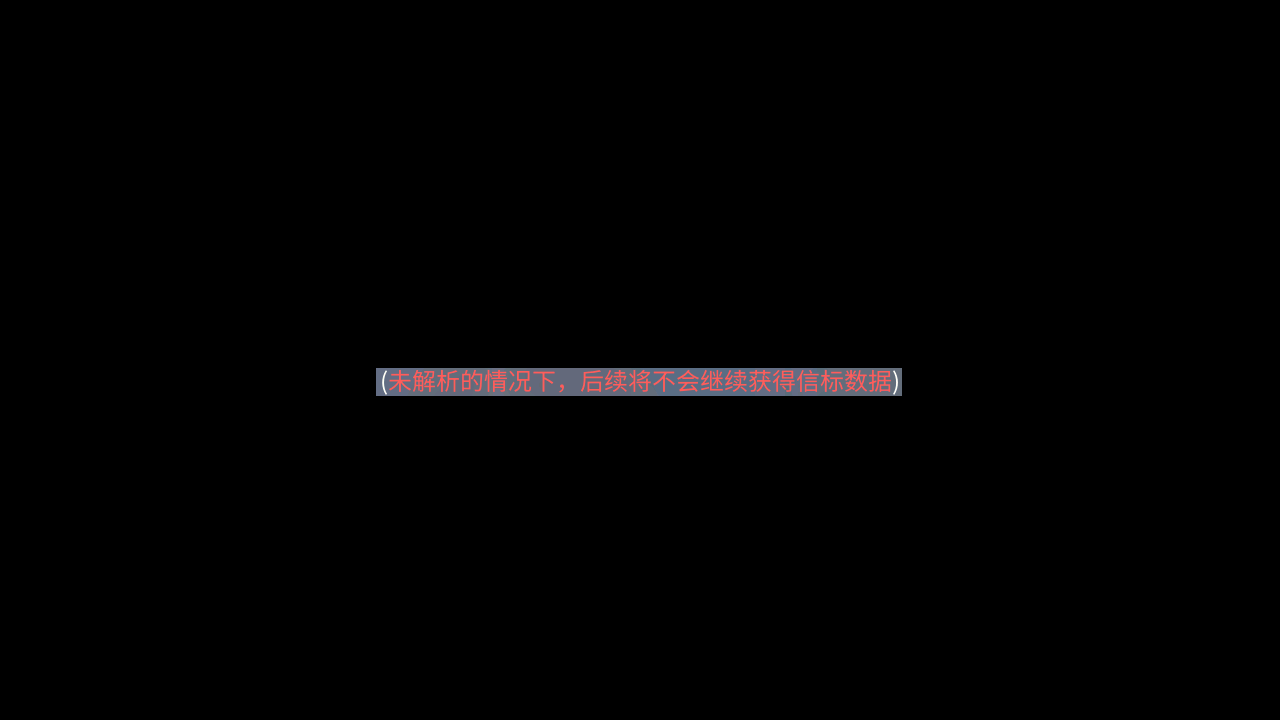
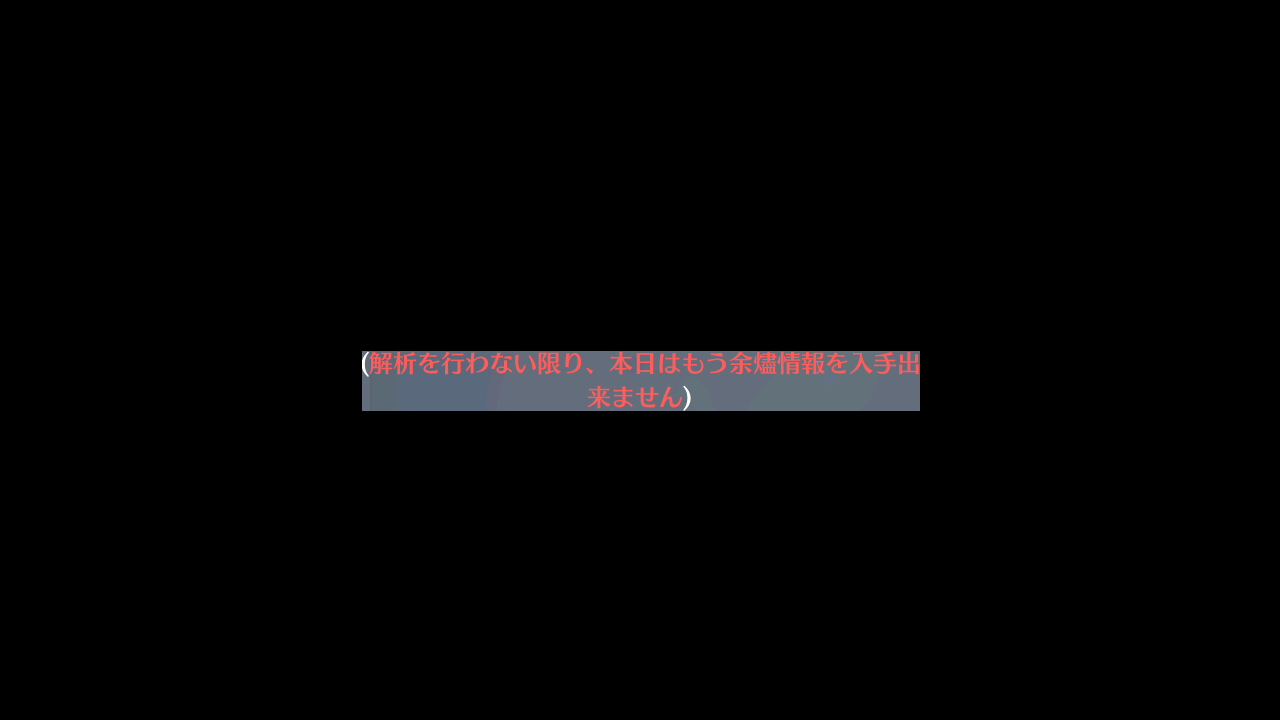
fix: [jp] update some os & os_handler assets

Changed region(s): [[0.2812, 0.4889, 0.7188, 0.5806]]

diff --git a/module/os_handler/assets.py b/module/os_handler/assets.py
@@ -5,13 +5,13 @@ from module.base.template import Template
 # Don't modify it manually.
 
 ACTION_POINT_BUY_REMAIN = Button(area={'cn': (803, 458, 833, 482), 'en': (907, 458, 941, 483), 'jp': (803, 458, 833, 482), 'tw': (803, 458, 833, 482)}, color={'cn': (108, 138, 125), 'en': (106, 145, 116), 'jp': (108, 138, 125), 'tw': (108, 138, 125)}, button={'cn': (803, 458, 833, 482), 'en': (907, 458, 941, 483), 'jp': (803, 458, 833, 482), 'tw': (803, 458, 833, 482)}, file={'cn': './assets/cn/os_handler/ACTION_POINT_BUY_REMAIN.png', 'en': './assets/en/os_handler/ACTION_POINT_BUY_REMAIN.png', 'jp': './assets/cn/os_handler/ACTION_POINT_BUY_REMAIN.png', 'tw': './assets/cn/os_handler/ACTION_POINT_BUY_REMAIN.png'})
-ACTION_POINT_CANCEL = Button(area={'cn': (370, 528, 542, 585), 'en': (375, 531, 537, 584), 'jp': (370, 528, 542, 585), 'tw': (370, 528, 542, 585)}, color={'cn': (167, 168, 171), 'en': (170, 172, 175), 'jp': (167, 168, 171), 'tw': (167, 168, 171)}, button={'cn': (370, 528, 542, 585), 'en': (375, 531, 537, 584), 'jp': (370, 528, 542, 585), 'tw': (370, 528, 542, 585)}, file={'cn': './assets/cn/os_handler/ACTION_POINT_CANCEL.png', 'en': './assets/en/os_handler/ACTION_POINT_CANCEL.png', 'jp': './assets/cn/os_handler/ACTION_POINT_CANCEL.png', 'tw': './assets/cn/os_handler/ACTION_POINT_CANCEL.png'})
+ACTION_POINT_CANCEL = Button(area={'cn': (370, 528, 542, 585), 'en': (375, 531, 537, 584), 'jp': (402, 482, 577, 541), 'tw': (370, 528, 542, 585)}, color={'cn': (167, 168, 171), 'en': (170, 172, 175), 'jp': (162, 164, 166), 'tw': (167, 168, 171)}, button={'cn': (370, 528, 542, 585), 'en': (375, 531, 537, 584), 'jp': (402, 482, 577, 541), 'tw': (370, 528, 542, 585)}, file={'cn': './assets/cn/os_handler/ACTION_POINT_CANCEL.png', 'en': './assets/en/os_handler/ACTION_POINT_CANCEL.png', 'jp': './assets/jp/os_handler/ACTION_POINT_CANCEL.png', 'tw': './assets/cn/os_handler/ACTION_POINT_CANCEL.png'})
 ACTION_POINT_REMAIN = Button(area={'cn': (892, 220, 952, 241), 'en': (892, 220, 952, 241), 'jp': (892, 220, 952, 241), 'tw': (892, 220, 952, 241)}, color={'cn': (124, 127, 113), 'en': (124, 127, 113), 'jp': (124, 127, 113), 'tw': (124, 127, 113)}, button={'cn': (892, 220, 952, 241), 'en': (892, 220, 952, 241), 'jp': (892, 220, 952, 241), 'tw': (892, 220, 952, 241)}, file={'cn': './assets/cn/os_handler/ACTION_POINT_REMAIN.png', 'en': './assets/en/os_handler/ACTION_POINT_REMAIN.png', 'jp': './assets/jp/os_handler/ACTION_POINT_REMAIN.png', 'tw': './assets/tw/os_handler/ACTION_POINT_REMAIN.png'})
-ACTION_POINT_USE = Button(area={'cn': (738, 528, 910, 585), 'en': (742, 531, 909, 584), 'jp': (738, 528, 910, 585), 'tw': (738, 528, 910, 585)}, color={'cn': (93, 142, 203), 'en': (107, 152, 208), 'jp': (93, 142, 203), 'tw': (93, 142, 203)}, button={'cn': (738, 528, 910, 585), 'en': (742, 531, 909, 584), 'jp': (738, 528, 910, 585), 'tw': (738, 528, 910, 585)}, file={'cn': './assets/cn/os_handler/ACTION_POINT_USE.png', 'en': './assets/en/os_handler/ACTION_POINT_USE.png', 'jp': './assets/cn/os_handler/ACTION_POINT_USE.png', 'tw': './assets/cn/os_handler/ACTION_POINT_USE.png'})
-ASH_POPUP_CHECK = Button(area={'cn': (352, 249, 928, 479), 'en': (352, 228, 926, 462), 'jp': (376, 368, 902, 396), 'tw': (376, 368, 902, 396)}, color={'cn': (107, 117, 135), 'en': (125, 129, 139), 'jp': (134, 105, 119), 'tw': (134, 105, 119)}, button={'cn': (352, 249, 928, 479), 'en': (352, 228, 926, 462), 'jp': (376, 368, 902, 396), 'tw': (376, 368, 902, 396)}, file={'cn': './assets/cn/os_handler/ASH_POPUP_CHECK.png', 'en': './assets/en/os_handler/ASH_POPUP_CHECK.png', 'jp': './assets/jp/os_handler/ASH_POPUP_CHECK.png', 'tw': './assets/tw/os_handler/ASH_POPUP_CHECK.png'})
-AUTO_SEARCH_OS_MAP_OPTION_OFF = Button(area={'cn': (1205, 549, 1275, 566), 'en': (1196, 574, 1273, 586), 'jp': (1205, 549, 1275, 566), 'tw': (1205, 549, 1275, 566)}, color={'cn': (196, 169, 169), 'en': (154, 135, 141), 'jp': (196, 169, 169), 'tw': (196, 169, 169)}, button={'cn': (1205, 549, 1275, 566), 'en': (1196, 574, 1273, 586), 'jp': (1205, 549, 1275, 566), 'tw': (1205, 549, 1275, 566)}, file={'cn': './assets/cn/os_handler/AUTO_SEARCH_OS_MAP_OPTION_OFF.png', 'en': './assets/en/os_handler/AUTO_SEARCH_OS_MAP_OPTION_OFF.png', 'jp': './assets/cn/os_handler/AUTO_SEARCH_OS_MAP_OPTION_OFF.png', 'tw': './assets/cn/os_handler/AUTO_SEARCH_OS_MAP_OPTION_OFF.png'})
-AUTO_SEARCH_OS_MAP_OPTION_ON = Button(area={'cn': (1205, 549, 1275, 566), 'en': (1198, 576, 1275, 588), 'jp': (1205, 549, 1275, 566), 'tw': (1205, 549, 1275, 566)}, color={'cn': (149, 176, 193), 'en': (116, 139, 160), 'jp': (149, 176, 193), 'tw': (149, 176, 193)}, button={'cn': (1205, 549, 1275, 566), 'en': (1198, 576, 1275, 588), 'jp': (1205, 549, 1275, 566), 'tw': (1205, 549, 1275, 566)}, file={'cn': './assets/cn/os_handler/AUTO_SEARCH_OS_MAP_OPTION_ON.png', 'en': './assets/en/os_handler/AUTO_SEARCH_OS_MAP_OPTION_ON.png', 'jp': './assets/cn/os_handler/AUTO_SEARCH_OS_MAP_OPTION_ON.png', 'tw': './assets/cn/os_handler/AUTO_SEARCH_OS_MAP_OPTION_ON.png'})
-AUTO_SEARCH_REWARD = Button(area={'cn': (558, 535, 730, 592), 'en': (563, 537, 725, 591), 'jp': (558, 535, 730, 592), 'tw': (558, 535, 730, 592)}, color={'cn': (163, 166, 170), 'en': (167, 170, 174), 'jp': (163, 166, 170), 'tw': (163, 166, 170)}, button={'cn': (558, 535, 730, 592), 'en': (563, 537, 725, 591), 'jp': (558, 535, 730, 592), 'tw': (558, 535, 730, 592)}, file={'cn': './assets/cn/os_handler/AUTO_SEARCH_REWARD.png', 'en': './assets/en/os_handler/AUTO_SEARCH_REWARD.png', 'jp': './assets/cn/os_handler/AUTO_SEARCH_REWARD.png', 'tw': './assets/cn/os_handler/AUTO_SEARCH_REWARD.png'})
+ACTION_POINT_USE = Button(area={'cn': (738, 528, 910, 585), 'en': (742, 531, 909, 584), 'jp': (702, 481, 878, 541), 'tw': (738, 528, 910, 585)}, color={'cn': (93, 142, 203), 'en': (107, 152, 208), 'jp': (94, 142, 203), 'tw': (93, 142, 203)}, button={'cn': (738, 528, 910, 585), 'en': (742, 531, 909, 584), 'jp': (702, 481, 878, 541), 'tw': (738, 528, 910, 585)}, file={'cn': './assets/cn/os_handler/ACTION_POINT_USE.png', 'en': './assets/en/os_handler/ACTION_POINT_USE.png', 'jp': './assets/jp/os_handler/ACTION_POINT_USE.png', 'tw': './assets/cn/os_handler/ACTION_POINT_USE.png'})
+ASH_POPUP_CHECK = Button(area={'cn': (352, 249, 928, 479), 'en': (352, 228, 926, 462), 'jp': (362, 351, 920, 411), 'tw': (376, 368, 902, 396)}, color={'cn': (107, 117, 135), 'en': (125, 129, 139), 'jp': (120, 107, 119), 'tw': (134, 105, 119)}, button={'cn': (352, 249, 928, 479), 'en': (352, 228, 926, 462), 'jp': (362, 351, 920, 411), 'tw': (376, 368, 902, 396)}, file={'cn': './assets/cn/os_handler/ASH_POPUP_CHECK.png', 'en': './assets/en/os_handler/ASH_POPUP_CHECK.png', 'jp': './assets/jp/os_handler/ASH_POPUP_CHECK.png', 'tw': './assets/tw/os_handler/ASH_POPUP_CHECK.png'})
+AUTO_SEARCH_OS_MAP_OPTION_OFF = Button(area={'cn': (1205, 549, 1275, 566), 'en': (1196, 574, 1273, 586), 'jp': (1204, 572, 1276, 593), 'tw': (1205, 549, 1275, 566)}, color={'cn': (196, 169, 169), 'en': (154, 135, 141), 'jp': (180, 154, 157), 'tw': (196, 169, 169)}, button={'cn': (1205, 549, 1275, 566), 'en': (1196, 574, 1273, 586), 'jp': (1204, 572, 1276, 593), 'tw': (1205, 549, 1275, 566)}, file={'cn': './assets/cn/os_handler/AUTO_SEARCH_OS_MAP_OPTION_OFF.png', 'en': './assets/en/os_handler/AUTO_SEARCH_OS_MAP_OPTION_OFF.png', 'jp': './assets/jp/os_handler/AUTO_SEARCH_OS_MAP_OPTION_OFF.png', 'tw': './assets/cn/os_handler/AUTO_SEARCH_OS_MAP_OPTION_OFF.png'})
+AUTO_SEARCH_OS_MAP_OPTION_ON = Button(area={'cn': (1205, 549, 1275, 566), 'en': (1198, 576, 1275, 588), 'jp': (1205, 573, 1275, 592), 'tw': (1205, 549, 1275, 566)}, color={'cn': (149, 176, 193), 'en': (116, 139, 160), 'jp': (145, 172, 190), 'tw': (149, 176, 193)}, button={'cn': (1205, 549, 1275, 566), 'en': (1198, 576, 1275, 588), 'jp': (1205, 573, 1275, 592), 'tw': (1205, 549, 1275, 566)}, file={'cn': './assets/cn/os_handler/AUTO_SEARCH_OS_MAP_OPTION_ON.png', 'en': './assets/en/os_handler/AUTO_SEARCH_OS_MAP_OPTION_ON.png', 'jp': './assets/jp/os_handler/AUTO_SEARCH_OS_MAP_OPTION_ON.png', 'tw': './assets/cn/os_handler/AUTO_SEARCH_OS_MAP_OPTION_ON.png'})
+AUTO_SEARCH_REWARD = Button(area={'cn': (558, 535, 730, 592), 'en': (563, 537, 725, 591), 'jp': (556, 534, 731, 594), 'tw': (558, 535, 730, 592)}, color={'cn': (163, 166, 170), 'en': (167, 170, 174), 'jp': (166, 169, 171), 'tw': (163, 166, 170)}, button={'cn': (558, 535, 730, 592), 'en': (563, 537, 725, 591), 'jp': (556, 534, 731, 594), 'tw': (558, 535, 730, 592)}, file={'cn': './assets/cn/os_handler/AUTO_SEARCH_REWARD.png', 'en': './assets/en/os_handler/AUTO_SEARCH_REWARD.png', 'jp': './assets/jp/os_handler/AUTO_SEARCH_REWARD.png', 'tw': './assets/cn/os_handler/AUTO_SEARCH_REWARD.png'})
 CLICK_SAFE_AREA = Button(area={'cn': (1104, 169, 1214, 284), 'en': (1104, 169, 1214, 284), 'jp': (1104, 169, 1214, 284), 'tw': (1104, 169, 1214, 284)}, color={'cn': (96, 114, 142), 'en': (96, 114, 142), 'jp': (96, 114, 142), 'tw': (96, 114, 142)}, button={'cn': (1104, 169, 1214, 284), 'en': (1104, 169, 1214, 284), 'jp': (1104, 169, 1214, 284), 'tw': (1104, 169, 1214, 284)}, file={'cn': './assets/cn/os_handler/CLICK_SAFE_AREA.png', 'en': './assets/en/os_handler/CLICK_SAFE_AREA.png', 'jp': './assets/jp/os_handler/CLICK_SAFE_AREA.png', 'tw': './assets/tw/os_handler/CLICK_SAFE_AREA.png'})
 GET_ADAPTABILITY = Button(area={'cn': (538, 191, 742, 227), 'en': (548, 191, 742, 215), 'jp': (538, 191, 743, 227), 'tw': (538, 191, 742, 227)}, color={'cn': (166, 195, 246), 'en': (194, 207, 225), 'jp': (158, 190, 245), 'tw': (166, 195, 246)}, button={'cn': (538, 191, 742, 227), 'en': (548, 191, 742, 215), 'jp': (538, 191, 743, 227), 'tw': (538, 191, 742, 227)}, file={'cn': './assets/cn/os_handler/GET_ADAPTABILITY.png', 'en': './assets/en/os_handler/GET_ADAPTABILITY.png', 'jp': './assets/jp/os_handler/GET_ADAPTABILITY.png', 'tw': './assets/tw/os_handler/GET_ADAPTABILITY.png'})
 GET_MEOWFFICER_ITEMS_1 = Button(area={'cn': (558, 211, 730, 242), 'en': (550, 211, 723, 247), 'jp': (538, 217, 732, 253), 'tw': (558, 211, 730, 242)}, color={'cn': (186, 200, 231), 'en': (165, 191, 241), 'jp': (143, 180, 249), 'tw': (186, 200, 231)}, button={'cn': (558, 211, 730, 242), 'en': (550, 211, 723, 247), 'jp': (538, 217, 732, 253), 'tw': (558, 211, 730, 242)}, file={'cn': './assets/cn/os_handler/GET_MEOWFFICER_ITEMS_1.png', 'en': './assets/en/os_handler/GET_MEOWFFICER_ITEMS_1.png', 'jp': './assets/jp/os_handler/GET_MEOWFFICER_ITEMS_1.png', 'tw': './assets/tw/os_handler/GET_MEOWFFICER_ITEMS_1.png'})
@@ -19,21 +19,21 @@ GET_MEOWFFICER_ITEMS_2 = Button(area={'cn': (558, 140, 730, 171), 'en': (550, 14
 IN_MAP = Button(area={'cn': (921, 640, 1023, 695), 'en': (921, 640, 1023, 695), 'jp': (918, 637, 1026, 698), 'tw': (936, 638, 1037, 697)}, color={'cn': (240, 194, 115), 'en': (239, 192, 110), 'jp': (236, 192, 111), 'tw': (239, 192, 111)}, button={'cn': (921, 640, 1023, 695), 'en': (921, 640, 1023, 695), 'jp': (918, 637, 1026, 698), 'tw': (936, 638, 1037, 697)}, file={'cn': './assets/cn/os_handler/IN_MAP.png', 'en': './assets/en/os_handler/IN_MAP.png', 'jp': './assets/jp/os_handler/IN_MAP.png', 'tw': './assets/tw/os_handler/IN_MAP.png'})
 MAP_ARCHIVES = Button(area={'cn': (1180, 353, 1280, 411), 'en': (1212, 353, 1280, 411), 'jp': (1180, 353, 1280, 411), 'tw': (1180, 353, 1280, 411)}, color={'cn': (134, 255, 255), 'en': (135, 255, 255), 'jp': (134, 255, 255), 'tw': (134, 255, 255)}, button={'cn': (1180, 353, 1280, 411), 'en': (1212, 353, 1280, 411), 'jp': (1180, 353, 1280, 411), 'tw': (1180, 353, 1280, 411)}, file={'cn': './assets/cn/os_handler/MAP_ARCHIVES.png', 'en': './assets/en/os_handler/MAP_ARCHIVES.png', 'jp': './assets/jp/os_handler/MAP_ARCHIVES.png', 'tw': './assets/tw/os_handler/MAP_ARCHIVES.png'})
 MAP_WORLD = Button(area={'cn': (578, 675, 702, 691), 'en': (583, 677, 691, 694), 'jp': (586, 676, 693, 694), 'tw': (583, 677, 691, 694)}, color={'cn': (83, 81, 79), 'en': (67, 85, 108), 'jp': (64, 68, 76), 'tw': (67, 85, 108)}, button={'cn': (578, 675, 702, 691), 'en': (583, 677, 691, 694), 'jp': (586, 676, 693, 694), 'tw': (583, 677, 691, 694)}, file={'cn': './assets/cn/os_handler/MAP_WORLD.png', 'en': './assets/en/os_handler/MAP_WORLD.png', 'jp': './assets/jp/os_handler/MAP_WORLD.png', 'tw': './assets/tw/os_handler/MAP_WORLD.png'})
-MISSION_CHECK = Button(area={'cn': (120, 122, 229, 148), 'en': (120, 125, 323, 147), 'jp': (120, 122, 229, 148), 'tw': (120, 122, 229, 148)}, color={'cn': (145, 153, 187), 'en': (139, 148, 184), 'jp': (145, 153, 187), 'tw': (145, 153, 187)}, button={'cn': (120, 122, 229, 148), 'en': (120, 125, 323, 147), 'jp': (120, 122, 229, 148), 'tw': (120, 122, 229, 148)}, file={'cn': './assets/cn/os_handler/MISSION_CHECK.png', 'en': './assets/en/os_handler/MISSION_CHECK.png', 'jp': './assets/cn/os_handler/MISSION_CHECK.png', 'tw': './assets/cn/os_handler/MISSION_CHECK.png'})
-MISSION_CHECKOUT = Button(area={'cn': (1026, 204, 1114, 234), 'en': (1029, 205, 1112, 232), 'jp': (1026, 204, 1114, 234), 'tw': (1026, 204, 1114, 234)}, color={'cn': (152, 153, 156), 'en': (153, 154, 158), 'jp': (152, 153, 156), 'tw': (152, 153, 156)}, button={'cn': (1026, 204, 1114, 234), 'en': (1029, 205, 1112, 232), 'jp': (1026, 204, 1114, 234), 'tw': (1026, 204, 1114, 234)}, file={'cn': './assets/cn/os_handler/MISSION_CHECKOUT.png', 'en': './assets/en/os_handler/MISSION_CHECKOUT.png', 'jp': './assets/cn/os_handler/MISSION_CHECKOUT.png', 'tw': './assets/cn/os_handler/MISSION_CHECKOUT.png'})
-MISSION_ENTER = Button(area={'cn': (767, 639, 853, 695), 'en': (767, 640, 824, 695), 'jp': (767, 639, 853, 695), 'tw': (767, 639, 853, 695)}, color={'cn': (230, 185, 113), 'en': (234, 184, 112), 'jp': (230, 185, 113), 'tw': (230, 185, 113)}, button={'cn': (767, 639, 853, 695), 'en': (767, 640, 824, 695), 'jp': (767, 639, 853, 695), 'tw': (767, 639, 853, 695)}, file={'cn': './assets/cn/os_handler/MISSION_ENTER.png', 'en': './assets/en/os_handler/MISSION_ENTER.png', 'jp': './assets/cn/os_handler/MISSION_ENTER.png', 'tw': './assets/cn/os_handler/MISSION_ENTER.png'})
-MISSION_FINISH = Button(area={'cn': (1028, 205, 1112, 232), 'en': (1029, 205, 1112, 232), 'jp': (1028, 205, 1112, 232), 'tw': (1028, 205, 1112, 232)}, color={'cn': (79, 128, 191), 'en': (84, 132, 193), 'jp': (79, 128, 191), 'tw': (79, 128, 191)}, button={'cn': (1028, 205, 1112, 232), 'en': (1029, 205, 1112, 232), 'jp': (1028, 205, 1112, 232), 'tw': (1028, 205, 1112, 232)}, file={'cn': './assets/cn/os_handler/MISSION_FINISH.png', 'en': './assets/en/os_handler/MISSION_FINISH.png', 'jp': './assets/cn/os_handler/MISSION_FINISH.png', 'tw': './assets/cn/os_handler/MISSION_FINISH.png'})
+MISSION_CHECK = Button(area={'cn': (120, 122, 229, 148), 'en': (120, 125, 323, 147), 'jp': (119, 121, 230, 148), 'tw': (120, 122, 229, 148)}, color={'cn': (145, 153, 187), 'en': (139, 148, 184), 'jp': (131, 142, 180), 'tw': (145, 153, 187)}, button={'cn': (120, 122, 229, 148), 'en': (120, 125, 323, 147), 'jp': (119, 121, 230, 148), 'tw': (120, 122, 229, 148)}, file={'cn': './assets/cn/os_handler/MISSION_CHECK.png', 'en': './assets/en/os_handler/MISSION_CHECK.png', 'jp': './assets/jp/os_handler/MISSION_CHECK.png', 'tw': './assets/cn/os_handler/MISSION_CHECK.png'})
+MISSION_CHECKOUT = Button(area={'cn': (1026, 204, 1114, 234), 'en': (1029, 205, 1112, 232), 'jp': (1026, 204, 1114, 234), 'tw': (1026, 204, 1114, 234)}, color={'cn': (152, 153, 156), 'en': (153, 154, 158), 'jp': (157, 158, 161), 'tw': (152, 153, 156)}, button={'cn': (1026, 204, 1114, 234), 'en': (1029, 205, 1112, 232), 'jp': (1026, 204, 1114, 234), 'tw': (1026, 204, 1114, 234)}, file={'cn': './assets/cn/os_handler/MISSION_CHECKOUT.png', 'en': './assets/en/os_handler/MISSION_CHECKOUT.png', 'jp': './assets/jp/os_handler/MISSION_CHECKOUT.png', 'tw': './assets/cn/os_handler/MISSION_CHECKOUT.png'})
+MISSION_ENTER = Button(area={'cn': (767, 639, 853, 695), 'en': (767, 640, 824, 695), 'jp': (770, 644, 833, 696), 'tw': (767, 639, 853, 695)}, color={'cn': (230, 185, 113), 'en': (234, 184, 112), 'jp': (238, 195, 137), 'tw': (230, 185, 113)}, button={'cn': (767, 639, 853, 695), 'en': (767, 640, 824, 695), 'jp': (770, 644, 833, 696), 'tw': (767, 639, 853, 695)}, file={'cn': './assets/cn/os_handler/MISSION_ENTER.png', 'en': './assets/en/os_handler/MISSION_ENTER.png', 'jp': './assets/jp/os_handler/MISSION_ENTER.png', 'tw': './assets/cn/os_handler/MISSION_ENTER.png'})
+MISSION_FINISH = Button(area={'cn': (1028, 205, 1112, 232), 'en': (1029, 205, 1112, 232), 'jp': (1026, 204, 1114, 234), 'tw': (1028, 205, 1112, 232)}, color={'cn': (79, 128, 191), 'en': (84, 132, 193), 'jp': (91, 137, 196), 'tw': (79, 128, 191)}, button={'cn': (1028, 205, 1112, 232), 'en': (1029, 205, 1112, 232), 'jp': (1026, 204, 1114, 234), 'tw': (1028, 205, 1112, 232)}, file={'cn': './assets/cn/os_handler/MISSION_FINISH.png', 'en': './assets/en/os_handler/MISSION_FINISH.png', 'jp': './assets/jp/os_handler/MISSION_FINISH.png', 'tw': './assets/cn/os_handler/MISSION_FINISH.png'})
 MISSION_MAP_CHECK = Button(area={'cn': (943, 499, 1048, 512), 'en': (943, 499, 1048, 512), 'jp': (943, 499, 1048, 512), 'tw': (943, 499, 1048, 512)}, color={'cn': (71, 74, 83), 'en': (71, 74, 83), 'jp': (71, 74, 83), 'tw': (71, 74, 83)}, button={'cn': (943, 499, 1048, 512), 'en': (943, 499, 1048, 512), 'jp': (943, 499, 1048, 512), 'tw': (943, 499, 1048, 512)}, file={'cn': './assets/cn/os_handler/MISSION_MAP_CHECK.png', 'en': './assets/en/os_handler/MISSION_MAP_CHECK.png', 'jp': './assets/jp/os_handler/MISSION_MAP_CHECK.png', 'tw': './assets/tw/os_handler/MISSION_MAP_CHECK.png'})
 MISSION_QUIT = Button(area={'cn': (1086, 111, 1152, 155), 'en': (1086, 111, 1152, 155), 'jp': (1086, 111, 1152, 155), 'tw': (1086, 111, 1152, 155)}, color={'cn': (152, 38, 35), 'en': (152, 38, 35), 'jp': (152, 38, 35), 'tw': (152, 38, 35)}, button={'cn': (1086, 111, 1152, 155), 'en': (1086, 111, 1152, 155), 'jp': (1086, 111, 1152, 155), 'tw': (1086, 111, 1152, 155)}, file={'cn': './assets/cn/os_handler/MISSION_QUIT.png', 'en': './assets/en/os_handler/MISSION_QUIT.png', 'jp': './assets/jp/os_handler/MISSION_QUIT.png', 'tw': './assets/tw/os_handler/MISSION_QUIT.png'})
-PORT_DOCK_CHECK = Button(area={'cn': (182, 645, 364, 697), 'en': (182, 645, 364, 696), 'jp': (182, 645, 364, 697), 'tw': (182, 645, 364, 697)}, color={'cn': (125, 179, 242), 'en': (119, 176, 241), 'jp': (125, 179, 242), 'tw': (125, 179, 242)}, button={'cn': (182, 645, 364, 697), 'en': (182, 645, 364, 696), 'jp': (182, 645, 364, 697), 'tw': (182, 645, 364, 697)}, file={'cn': './assets/cn/os_handler/PORT_DOCK_CHECK.png', 'en': './assets/en/os_handler/PORT_DOCK_CHECK.png', 'jp': './assets/cn/os_handler/PORT_DOCK_CHECK.png', 'tw': './assets/cn/os_handler/PORT_DOCK_CHECK.png'})
-PORT_ENTER = Button(area={'cn': (1148, 640, 1280, 698), 'en': (1148, 637, 1280, 699), 'jp': (1148, 640, 1280, 698), 'tw': (1148, 640, 1280, 698)}, color={'cn': (47, 55, 66), 'en': (37, 49, 64), 'jp': (47, 55, 66), 'tw': (47, 55, 66)}, button={'cn': (1148, 640, 1280, 698), 'en': (1148, 637, 1280, 699), 'jp': (1148, 640, 1280, 698), 'tw': (1148, 640, 1280, 698)}, file={'cn': './assets/cn/os_handler/PORT_ENTER.png', 'en': './assets/en/os_handler/PORT_ENTER.png', 'jp': './assets/cn/os_handler/PORT_ENTER.png', 'tw': './assets/cn/os_handler/PORT_ENTER.png'})
-PORT_GOTO_DOCK = Button(area={'cn': (1069, 640, 1260, 695), 'en': (1068, 640, 1261, 694), 'jp': (1069, 640, 1260, 695), 'tw': (1069, 640, 1260, 695)}, color={'cn': (114, 171, 236), 'en': (119, 173, 237), 'jp': (114, 171, 236), 'tw': (114, 171, 236)}, button={'cn': (1069, 640, 1260, 695), 'en': (1068, 640, 1261, 694), 'jp': (1069, 640, 1260, 695), 'tw': (1069, 640, 1260, 695)}, file={'cn': './assets/cn/os_handler/PORT_GOTO_DOCK.png', 'en': './assets/en/os_handler/PORT_GOTO_DOCK.png', 'jp': './assets/cn/os_handler/PORT_GOTO_DOCK.png', 'tw': './assets/cn/os_handler/PORT_GOTO_DOCK.png'})
-PORT_GOTO_MISSION = Button(area={'cn': (606, 641, 783, 695), 'en': (605, 640, 798, 694), 'jp': (606, 641, 783, 695), 'tw': (606, 641, 783, 695)}, color={'cn': (229, 174, 90), 'en': (231, 178, 94), 'jp': (229, 174, 90), 'tw': (229, 174, 90)}, button={'cn': (606, 641, 783, 695), 'en': (605, 640, 798, 694), 'jp': (606, 641, 783, 695), 'tw': (606, 641, 783, 695)}, file={'cn': './assets/cn/os_handler/PORT_GOTO_MISSION.png', 'en': './assets/en/os_handler/PORT_GOTO_MISSION.png', 'jp': './assets/cn/os_handler/PORT_GOTO_MISSION.png', 'tw': './assets/cn/os_handler/PORT_GOTO_MISSION.png'})
-PORT_GOTO_SUPPLY = Button(area={'cn': (837, 640, 1029, 695), 'en': (837, 640, 1029, 694), 'jp': (837, 640, 1029, 695), 'tw': (837, 640, 1029, 695)}, color={'cn': (110, 167, 233), 'en': (114, 168, 233), 'jp': (110, 167, 233), 'tw': (110, 167, 233)}, button={'cn': (837, 640, 1029, 695), 'en': (837, 640, 1029, 694), 'jp': (837, 640, 1029, 695), 'tw': (837, 640, 1029, 695)}, file={'cn': './assets/cn/os_handler/PORT_GOTO_SUPPLY.png', 'en': './assets/en/os_handler/PORT_GOTO_SUPPLY.png', 'jp': './assets/cn/os_handler/PORT_GOTO_SUPPLY.png', 'tw': './assets/cn/os_handler/PORT_GOTO_SUPPLY.png'})
-PORT_MISSION_ACCEPT = Button(area={'cn': (1132, 147, 1205, 176), 'en': (1131, 153, 1210, 177), 'jp': (1132, 147, 1205, 176), 'tw': (1132, 147, 1205, 176)}, color={'cn': (143, 181, 231), 'en': (155, 194, 236), 'jp': (143, 181, 231), 'tw': (143, 181, 231)}, button={'cn': (1132, 147, 1205, 176), 'en': (1131, 153, 1210, 177), 'jp': (1132, 147, 1205, 176), 'tw': (1132, 147, 1205, 176)}, file={'cn': './assets/cn/os_handler/PORT_MISSION_ACCEPT.png', 'en': './assets/en/os_handler/PORT_MISSION_ACCEPT.png', 'jp': './assets/cn/os_handler/PORT_MISSION_ACCEPT.png', 'tw': './assets/cn/os_handler/PORT_MISSION_ACCEPT.png'})
-PORT_MISSION_CHECK = Button(area={'cn': (127, 17, 179, 42), 'en': (127, 17, 231, 41), 'jp': (127, 17, 179, 42), 'tw': (127, 17, 179, 42)}, color={'cn': (149, 166, 206), 'en': (134, 148, 188), 'jp': (149, 166, 206), 'tw': (149, 166, 206)}, button={'cn': (127, 17, 179, 42), 'en': (127, 17, 231, 41), 'jp': (127, 17, 179, 42), 'tw': (127, 17, 179, 42)}, file={'cn': './assets/cn/os_handler/PORT_MISSION_CHECK.png', 'en': './assets/en/os_handler/PORT_MISSION_CHECK.png', 'jp': './assets/cn/os_handler/PORT_MISSION_CHECK.png', 'tw': './assets/cn/os_handler/PORT_MISSION_CHECK.png'})
+PORT_DOCK_CHECK = Button(area={'cn': (182, 645, 364, 697), 'en': (182, 645, 364, 696), 'jp': (178, 641, 368, 700), 'tw': (182, 645, 364, 697)}, color={'cn': (125, 179, 242), 'en': (119, 176, 241), 'jp': (117, 175, 241), 'tw': (125, 179, 242)}, button={'cn': (182, 645, 364, 697), 'en': (182, 645, 364, 696), 'jp': (178, 641, 368, 700), 'tw': (182, 645, 364, 697)}, file={'cn': './assets/cn/os_handler/PORT_DOCK_CHECK.png', 'en': './assets/en/os_handler/PORT_DOCK_CHECK.png', 'jp': './assets/jp/os_handler/PORT_DOCK_CHECK.png', 'tw': './assets/cn/os_handler/PORT_DOCK_CHECK.png'})
+PORT_ENTER = Button(area={'cn': (1148, 640, 1280, 698), 'en': (1148, 637, 1280, 699), 'jp': (1147, 637, 1280, 699), 'tw': (1148, 640, 1280, 698)}, color={'cn': (47, 55, 66), 'en': (37, 49, 64), 'jp': (45, 61, 79), 'tw': (47, 55, 66)}, button={'cn': (1148, 640, 1280, 698), 'en': (1148, 637, 1280, 699), 'jp': (1147, 637, 1280, 699), 'tw': (1148, 640, 1280, 698)}, file={'cn': './assets/cn/os_handler/PORT_ENTER.png', 'en': './assets/en/os_handler/PORT_ENTER.png', 'jp': './assets/jp/os_handler/PORT_ENTER.png', 'tw': './assets/cn/os_handler/PORT_ENTER.png'})
+PORT_GOTO_DOCK = Button(area={'cn': (1069, 640, 1260, 695), 'en': (1068, 640, 1261, 694), 'jp': (1130, 639, 1264, 697), 'tw': (1069, 640, 1260, 695)}, color={'cn': (114, 171, 236), 'en': (119, 173, 237), 'jp': (114, 180, 243), 'tw': (114, 171, 236)}, button={'cn': (1069, 640, 1260, 695), 'en': (1068, 640, 1261, 694), 'jp': (1130, 639, 1264, 697), 'tw': (1069, 640, 1260, 695)}, file={'cn': './assets/cn/os_handler/PORT_GOTO_DOCK.png', 'en': './assets/en/os_handler/PORT_GOTO_DOCK.png', 'jp': './assets/jp/os_handler/PORT_GOTO_DOCK.png', 'tw': './assets/cn/os_handler/PORT_GOTO_DOCK.png'})
+PORT_GOTO_MISSION = Button(area={'cn': (606, 641, 783, 695), 'en': (605, 640, 798, 694), 'jp': (605, 639, 744, 697), 'tw': (606, 641, 783, 695)}, color={'cn': (229, 174, 90), 'en': (231, 178, 94), 'jp': (225, 167, 93), 'tw': (229, 174, 90)}, button={'cn': (606, 641, 783, 695), 'en': (605, 640, 798, 694), 'jp': (605, 639, 744, 697), 'tw': (606, 641, 783, 695)}, file={'cn': './assets/cn/os_handler/PORT_GOTO_MISSION.png', 'en': './assets/en/os_handler/PORT_GOTO_MISSION.png', 'jp': './assets/jp/os_handler/PORT_GOTO_MISSION.png', 'tw': './assets/cn/os_handler/PORT_GOTO_MISSION.png'})
+PORT_GOTO_SUPPLY = Button(area={'cn': (837, 640, 1029, 695), 'en': (837, 640, 1029, 694), 'jp': (835, 637, 1032, 696), 'tw': (837, 640, 1029, 695)}, color={'cn': (110, 167, 233), 'en': (114, 168, 233), 'jp': (111, 168, 233), 'tw': (110, 167, 233)}, button={'cn': (837, 640, 1029, 695), 'en': (837, 640, 1029, 694), 'jp': (835, 637, 1032, 696), 'tw': (837, 640, 1029, 695)}, file={'cn': './assets/cn/os_handler/PORT_GOTO_SUPPLY.png', 'en': './assets/en/os_handler/PORT_GOTO_SUPPLY.png', 'jp': './assets/jp/os_handler/PORT_GOTO_SUPPLY.png', 'tw': './assets/cn/os_handler/PORT_GOTO_SUPPLY.png'})
+PORT_MISSION_ACCEPT = Button(area={'cn': (1132, 147, 1205, 176), 'en': (1131, 153, 1210, 177), 'jp': (1128, 146, 1208, 189), 'tw': (1132, 147, 1205, 176)}, color={'cn': (143, 181, 231), 'en': (155, 194, 236), 'jp': (114, 156, 218), 'tw': (143, 181, 231)}, button={'cn': (1132, 147, 1205, 176), 'en': (1131, 153, 1210, 177), 'jp': (1128, 146, 1208, 189), 'tw': (1132, 147, 1205, 176)}, file={'cn': './assets/cn/os_handler/PORT_MISSION_ACCEPT.png', 'en': './assets/en/os_handler/PORT_MISSION_ACCEPT.png', 'jp': './assets/jp/os_handler/PORT_MISSION_ACCEPT.png', 'tw': './assets/cn/os_handler/PORT_MISSION_ACCEPT.png'})
+PORT_MISSION_CHECK = Button(area={'cn': (127, 17, 179, 42), 'en': (127, 17, 231, 41), 'jp': (124, 13, 184, 47), 'tw': (127, 17, 179, 42)}, color={'cn': (149, 166, 206), 'en': (134, 148, 188), 'jp': (136, 151, 189), 'tw': (149, 166, 206)}, button={'cn': (127, 17, 179, 42), 'en': (127, 17, 231, 41), 'jp': (124, 13, 184, 47), 'tw': (127, 17, 179, 42)}, file={'cn': './assets/cn/os_handler/PORT_MISSION_CHECK.png', 'en': './assets/en/os_handler/PORT_MISSION_CHECK.png', 'jp': './assets/jp/os_handler/PORT_MISSION_CHECK.png', 'tw': './assets/cn/os_handler/PORT_MISSION_CHECK.png'})
 PORT_MISSION_RED_DOT = Button(area={'cn': (791, 639, 799, 647), 'en': (791, 639, 799, 647), 'jp': (791, 639, 799, 647), 'tw': (791, 639, 799, 647)}, color={'cn': (222, 115, 90), 'en': (222, 115, 90), 'jp': (222, 115, 90), 'tw': (222, 115, 90)}, button={'cn': (791, 639, 799, 647), 'en': (791, 639, 799, 647), 'jp': (791, 639, 799, 647), 'tw': (791, 639, 799, 647)}, file={'cn': './assets/cn/os_handler/PORT_MISSION_RED_DOT.png', 'en': './assets/en/os_handler/PORT_MISSION_RED_DOT.png', 'jp': './assets/jp/os_handler/PORT_MISSION_RED_DOT.png', 'tw': './assets/tw/os_handler/PORT_MISSION_RED_DOT.png'})
-PORT_SUPPLY_CHECK = Button(area={'cn': (127, 16, 180, 41), 'en': (127, 15, 264, 39), 'jp': (127, 16, 180, 41), 'tw': (127, 16, 180, 41)}, color={'cn': (146, 163, 202), 'en': (131, 145, 186), 'jp': (146, 163, 202), 'tw': (146, 163, 202)}, button={'cn': (127, 16, 180, 41), 'en': (127, 15, 264, 39), 'jp': (127, 16, 180, 41), 'tw': (127, 16, 180, 41)}, file={'cn': './assets/cn/os_handler/PORT_SUPPLY_CHECK.png', 'en': './assets/en/os_handler/PORT_SUPPLY_CHECK.png', 'jp': './assets/cn/os_handler/PORT_SUPPLY_CHECK.png', 'tw': './assets/cn/os_handler/PORT_SUPPLY_CHECK.png'})
-SHOP_BUY_CONFIRM = Button(area={'cn': (704, 483, 876, 540), 'en': (708, 484, 875, 538), 'jp': (704, 483, 876, 540), 'tw': (704, 483, 876, 540)}, color={'cn': (93, 142, 204), 'en': (106, 151, 207), 'jp': (93, 142, 204), 'tw': (93, 142, 204)}, button={'cn': (704, 483, 876, 540), 'en': (708, 484, 875, 538), 'jp': (704, 483, 876, 540), 'tw': (704, 483, 876, 540)}, file={'cn': './assets/cn/os_handler/SHOP_BUY_CONFIRM.png', 'en': './assets/en/os_handler/SHOP_BUY_CONFIRM.png', 'jp': './assets/cn/os_handler/SHOP_BUY_CONFIRM.png', 'tw': './assets/cn/os_handler/SHOP_BUY_CONFIRM.png'})
+PORT_SUPPLY_CHECK = Button(area={'cn': (127, 16, 180, 41), 'en': (127, 15, 264, 39), 'jp': (125, 14, 184, 48), 'tw': (127, 16, 180, 41)}, color={'cn': (146, 163, 202), 'en': (131, 145, 186), 'jp': (123, 137, 175), 'tw': (146, 163, 202)}, button={'cn': (127, 16, 180, 41), 'en': (127, 15, 264, 39), 'jp': (125, 14, 184, 48), 'tw': (127, 16, 180, 41)}, file={'cn': './assets/cn/os_handler/PORT_SUPPLY_CHECK.png', 'en': './assets/en/os_handler/PORT_SUPPLY_CHECK.png', 'jp': './assets/jp/os_handler/PORT_SUPPLY_CHECK.png', 'tw': './assets/cn/os_handler/PORT_SUPPLY_CHECK.png'})
+SHOP_BUY_CONFIRM = Button(area={'cn': (704, 483, 876, 540), 'en': (708, 484, 875, 538), 'jp': (704, 482, 876, 541), 'tw': (704, 483, 876, 540)}, color={'cn': (93, 142, 204), 'en': (106, 151, 207), 'jp': (91, 141, 203), 'tw': (93, 142, 204)}, button={'cn': (704, 483, 876, 540), 'en': (708, 484, 875, 538), 'jp': (704, 482, 876, 541), 'tw': (704, 483, 876, 540)}, file={'cn': './assets/cn/os_handler/SHOP_BUY_CONFIRM.png', 'en': './assets/en/os_handler/SHOP_BUY_CONFIRM.png', 'jp': './assets/jp/os_handler/SHOP_BUY_CONFIRM.png', 'tw': './assets/cn/os_handler/SHOP_BUY_CONFIRM.png'})
 SHOP_PURPLE_COINS = Button(area={'cn': (325, 110, 415, 133), 'en': (379, 106, 489, 137), 'jp': (325, 110, 415, 133), 'tw': (325, 110, 415, 133)}, color={'cn': (97, 100, 108), 'en': (102, 107, 118), 'jp': (97, 100, 108), 'tw': (97, 100, 108)}, button={'cn': (325, 110, 415, 133), 'en': (379, 106, 489, 137), 'jp': (325, 110, 415, 133), 'tw': (325, 110, 415, 133)}, file={'cn': './assets/cn/os_handler/SHOP_PURPLE_COINS.png', 'en': './assets/en/os_handler/SHOP_PURPLE_COINS.png', 'jp': './assets/cn/os_handler/SHOP_PURPLE_COINS.png', 'tw': './assets/cn/os_handler/SHOP_PURPLE_COINS.png'})
 SHOP_YELLOW_COINS = Button(area={'cn': (1038, 27, 1128, 48), 'en': (1038, 27, 1128, 48), 'jp': (1038, 27, 1128, 48), 'tw': (1038, 27, 1128, 48)}, color={'cn': (71, 74, 76), 'en': (71, 74, 76), 'jp': (71, 74, 76), 'tw': (71, 74, 76)}, button={'cn': (1038, 27, 1128, 48), 'en': (1038, 27, 1128, 48), 'jp': (1038, 27, 1128, 48), 'tw': (1038, 27, 1128, 48)}, file={'cn': './assets/cn/os_handler/SHOP_YELLOW_COINS.png', 'en': './assets/en/os_handler/SHOP_YELLOW_COINS.png', 'jp': './assets/jp/os_handler/SHOP_YELLOW_COINS.png', 'tw': './assets/tw/os_handler/SHOP_YELLOW_COINS.png'})

diff --git a/module/os/assets.py b/module/os/assets.py
@@ -14,11 +14,11 @@ SELECT_LOGGER = Button(area={'cn': (89, 251, 167, 269), 'en': (93, 254, 161, 268
 SELECT_OBSCURE = Button(area={'cn': (89, 251, 167, 269), 'en': (98, 252, 158, 268), 'jp': (89, 251, 167, 269), 'tw': (89, 251, 167, 269)}, color={'cn': (109, 111, 114), 'en': (96, 97, 101), 'jp': (109, 111, 114), 'tw': (109, 111, 114)}, button={'cn': (89, 251, 167, 269), 'en': (98, 252, 158, 268), 'jp': (89, 251, 167, 269), 'tw': (89, 251, 167, 269)}, file={'cn': './assets/cn/os/SELECT_OBSCURE.png', 'en': './assets/en/os/SELECT_OBSCURE.png', 'jp': './assets/cn/os/SELECT_OBSCURE.png', 'tw': './assets/cn/os/SELECT_OBSCURE.png'})
 SELECT_SAFE = Button(area={'cn': (89, 251, 167, 269), 'en': (92, 253, 164, 268), 'jp': (89, 251, 167, 269), 'tw': (89, 251, 167, 269)}, color={'cn': (89, 94, 94), 'en': (103, 109, 108), 'jp': (89, 94, 94), 'tw': (89, 94, 94)}, button={'cn': (89, 251, 167, 269), 'en': (92, 253, 164, 268), 'jp': (89, 251, 167, 269), 'tw': (89, 251, 167, 269)}, file={'cn': './assets/cn/os/SELECT_SAFE.png', 'en': './assets/en/os/SELECT_SAFE.png', 'jp': './assets/cn/os/SELECT_SAFE.png', 'tw': './assets/cn/os/SELECT_SAFE.png'})
 SELECT_STRONGHOLD = Button(area={'cn': (89, 251, 166, 269), 'en': (81, 252, 175, 272), 'jp': (89, 251, 166, 269), 'tw': (89, 251, 166, 269)}, color={'cn': (113, 114, 118), 'en': (81, 83, 87), 'jp': (113, 114, 118), 'tw': (113, 114, 118)}, button={'cn': (89, 251, 166, 269), 'en': (81, 252, 175, 272), 'jp': (89, 251, 166, 269), 'tw': (89, 251, 166, 269)}, file={'cn': './assets/cn/os/SELECT_STRONGHOLD.png', 'en': './assets/en/os/SELECT_STRONGHOLD.png', 'jp': './assets/cn/os/SELECT_STRONGHOLD.png', 'tw': './assets/cn/os/SELECT_STRONGHOLD.png'})
-ZONE_DANGEROUS = Button(area={'cn': (87, 310, 171, 322), 'en': (71, 310, 184, 319), 'jp': (87, 310, 171, 322), 'tw': (87, 310, 171, 322)}, color={'cn': (153, 177, 197), 'en': (181, 191, 204), 'jp': (153, 177, 197), 'tw': (153, 177, 197)}, button={'cn': (87, 310, 171, 322), 'en': (71, 310, 184, 319), 'jp': (87, 310, 171, 322), 'tw': (87, 310, 171, 322)}, file={'cn': './assets/cn/os/ZONE_DANGEROUS.png', 'en': './assets/en/os/ZONE_DANGEROUS.png', 'jp': './assets/cn/os/ZONE_DANGEROUS.png', 'tw': './assets/cn/os/ZONE_DANGEROUS.png'})
-ZONE_ENTRANCE = Button(area={'cn': (395, 276, 545, 320), 'en': (396, 278, 544, 318), 'jp': (395, 276, 545, 320), 'tw': (395, 276, 545, 320)}, color={'cn': (107, 158, 227), 'en': (110, 209, 210), 'jp': (107, 158, 227), 'tw': (107, 158, 227)}, button={'cn': (395, 276, 545, 320), 'en': (396, 278, 544, 318), 'jp': (395, 276, 545, 320), 'tw': (395, 276, 545, 320)}, file={'cn': './assets/cn/os/ZONE_ENTRANCE.png', 'en': './assets/en/os/ZONE_ENTRANCE.png', 'jp': './assets/cn/os/ZONE_ENTRANCE.png', 'tw': './assets/cn/os/ZONE_ENTRANCE.png'})
+ZONE_DANGEROUS = Button(area={'cn': (87, 310, 171, 322), 'en': (71, 310, 184, 319), 'jp': (84, 301, 172, 322), 'tw': (87, 310, 171, 322)}, color={'cn': (153, 177, 197), 'en': (181, 191, 204), 'jp': (126, 151, 197), 'tw': (153, 177, 197)}, button={'cn': (87, 310, 171, 322), 'en': (71, 310, 184, 319), 'jp': (84, 301, 172, 322), 'tw': (87, 310, 171, 322)}, file={'cn': './assets/cn/os/ZONE_DANGEROUS.png', 'en': './assets/en/os/ZONE_DANGEROUS.png', 'jp': './assets/jp/os/ZONE_DANGEROUS.png', 'tw': './assets/cn/os/ZONE_DANGEROUS.png'})
+ZONE_ENTRANCE = Button(area={'cn': (395, 276, 545, 320), 'en': (396, 278, 544, 318), 'jp': (397, 278, 545, 318), 'tw': (395, 276, 545, 320)}, color={'cn': (107, 158, 227), 'en': (110, 209, 210), 'jp': (106, 158, 227), 'tw': (107, 158, 227)}, button={'cn': (395, 276, 545, 320), 'en': (396, 278, 544, 318), 'jp': (397, 278, 545, 318), 'tw': (395, 276, 545, 320)}, file={'cn': './assets/cn/os/ZONE_ENTRANCE.png', 'en': './assets/en/os/ZONE_ENTRANCE.png', 'jp': './assets/jp/os/ZONE_ENTRANCE.png', 'tw': './assets/cn/os/ZONE_ENTRANCE.png'})
 ZONE_LOGGER = Button(area={'cn': (85, 302, 171, 322), 'en': (86, 302, 168, 319), 'jp': (85, 302, 171, 322), 'tw': (85, 302, 171, 322)}, color={'cn': (171, 143, 147), 'en': (176, 136, 138), 'jp': (171, 143, 147), 'tw': (171, 143, 147)}, button={'cn': (85, 302, 171, 322), 'en': (86, 302, 168, 319), 'jp': (85, 302, 171, 322), 'tw': (85, 302, 171, 322)}, file={'cn': './assets/cn/os/ZONE_LOGGER.png', 'en': './assets/en/os/ZONE_LOGGER.png', 'jp': './assets/cn/os/ZONE_LOGGER.png', 'tw': './assets/cn/os/ZONE_LOGGER.png'})
 ZONE_OBSCURED = Button(area={'cn': (85, 302, 172, 322), 'en': (90, 301, 165, 319), 'jp': (85, 302, 172, 322), 'tw': (85, 302, 172, 322)}, color={'cn': (142, 147, 186), 'en': (141, 150, 196), 'jp': (142, 147, 186), 'tw': (142, 147, 186)}, button={'cn': (85, 302, 172, 322), 'en': (90, 301, 165, 319), 'jp': (85, 302, 172, 322), 'tw': (85, 302, 172, 322)}, file={'cn': './assets/cn/os/ZONE_OBSCURED.png', 'en': './assets/en/os/ZONE_OBSCURED.png', 'jp': './assets/cn/os/ZONE_OBSCURED.png', 'tw': './assets/cn/os/ZONE_OBSCURED.png'})
 ZONE_PINNED = Button(area={'cn': (503, 419, 514, 430), 'en': (503, 419, 514, 430), 'jp': (503, 419, 514, 430), 'tw': (503, 419, 514, 430)}, color={'cn': (224, 239, 250), 'en': (224, 239, 250), 'jp': (224, 239, 250), 'tw': (224, 239, 250)}, button={'cn': (503, 419, 514, 430), 'en': (503, 419, 514, 430), 'jp': (503, 419, 514, 430), 'tw': (503, 419, 514, 430)}, file={'cn': './assets/cn/os/ZONE_PINNED.png', 'en': './assets/en/os/ZONE_PINNED.png', 'jp': './assets/jp/os/ZONE_PINNED.png', 'tw': './assets/tw/os/ZONE_PINNED.png'})
-ZONE_SAFE = Button(area={'cn': (85, 301, 172, 322), 'en': (85, 302, 171, 319), 'jp': (85, 301, 172, 322), 'tw': (85, 301, 172, 322)}, color={'cn': (131, 180, 184), 'en': (144, 190, 190), 'jp': (131, 180, 184), 'tw': (131, 180, 184)}, button={'cn': (85, 301, 172, 322), 'en': (85, 302, 171, 319), 'jp': (85, 301, 172, 322), 'tw': (85, 301, 172, 322)}, file={'cn': './assets/cn/os/ZONE_SAFE.png', 'en': './assets/en/os/ZONE_SAFE.png', 'jp': './assets/cn/os/ZONE_SAFE.png', 'tw': './assets/cn/os/ZONE_SAFE.png'})
+ZONE_SAFE = Button(area={'cn': (85, 301, 172, 322), 'en': (85, 302, 171, 319), 'jp': (84, 301, 172, 322), 'tw': (85, 301, 172, 322)}, color={'cn': (131, 180, 184), 'en': (144, 190, 190), 'jp': (134, 183, 187), 'tw': (131, 180, 184)}, button={'cn': (85, 301, 172, 322), 'en': (85, 302, 171, 319), 'jp': (84, 301, 172, 322), 'tw': (85, 301, 172, 322)}, file={'cn': './assets/cn/os/ZONE_SAFE.png', 'en': './assets/en/os/ZONE_SAFE.png', 'jp': './assets/jp/os/ZONE_SAFE.png', 'tw': './assets/cn/os/ZONE_SAFE.png'})
 ZONE_STRONGHOLD = Button(area={'cn': (85, 301, 171, 322), 'en': (67, 302, 188, 319), 'jp': (85, 301, 171, 322), 'tw': (85, 301, 171, 322)}, color={'cn': (154, 114, 123), 'en': (180, 138, 142), 'jp': (154, 114, 123), 'tw': (154, 114, 123)}, button={'cn': (85, 301, 171, 322), 'en': (67, 302, 188, 319), 'jp': (85, 301, 171, 322), 'tw': (85, 301, 171, 322)}, file={'cn': './assets/cn/os/ZONE_STRONGHOLD.png', 'en': './assets/en/os/ZONE_STRONGHOLD.png', 'jp': './assets/cn/os/ZONE_STRONGHOLD.png', 'tw': './assets/cn/os/ZONE_STRONGHOLD.png'})
 ZONE_SWITCH = Button(area={'cn': (72, 338, 94, 360), 'en': (72, 338, 94, 360), 'jp': (72, 338, 94, 360), 'tw': (72, 338, 94, 360)}, color={'cn': (129, 133, 134), 'en': (129, 133, 134), 'jp': (129, 133, 134), 'tw': (129, 133, 134)}, button={'cn': (72, 338, 94, 360), 'en': (72, 338, 94, 360), 'jp': (72, 338, 94, 360), 'tw': (72, 338, 94, 360)}, file={'cn': './assets/cn/os/ZONE_SWITCH.png', 'en': './assets/en/os/ZONE_SWITCH.png', 'jp': './assets/jp/os/ZONE_SWITCH.png', 'tw': './assets/tw/os/ZONE_SWITCH.png'})
